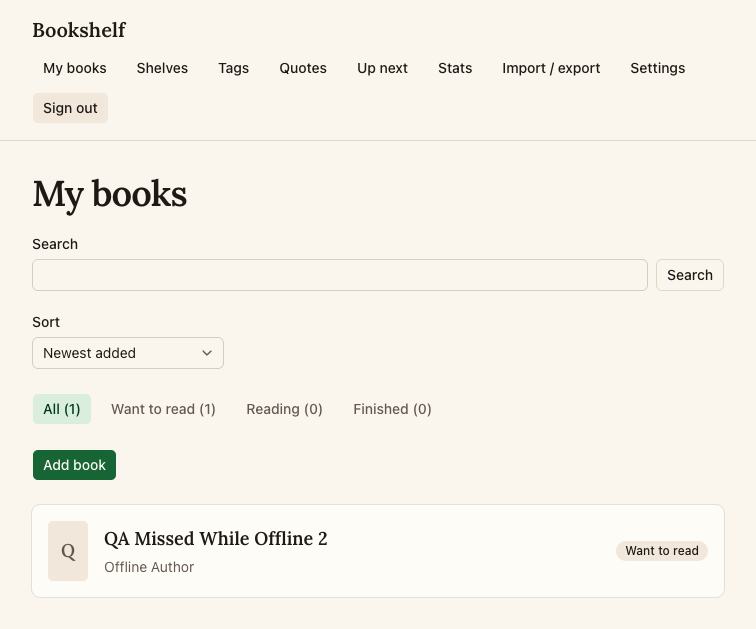
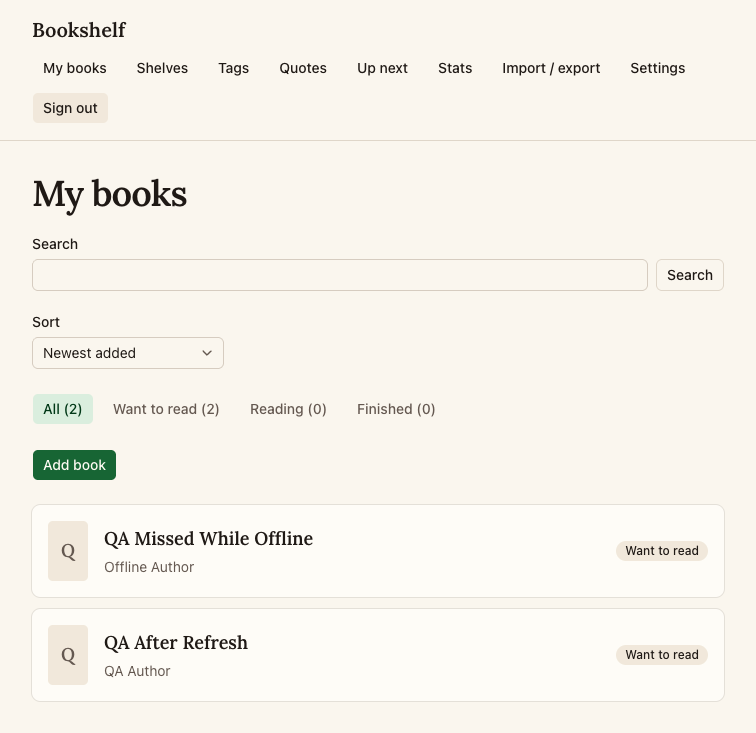
fix(F086): keep main's F081 spec and baseline; verifier PASS

diff --git a/harness/evidence/F086.md b/harness/evidence/F086.md
@@ -1,23 +1,23 @@
 <!-- written by harness/hooks/verifier-evidence.py; do not edit -->
-- Verified at: 2026-11-16T01:39:49 on e5b5150 plus working tree
-- Verifier run: a7fbfbf787d80875f
+- Verified at: 2026-11-16T01:47:36 on cdc7055 plus working tree
+- Verifier run: a55eab7f4c2c960e5
 
 VERDICT: PASS
 FEATURE: F086
 CRITERIA:
-- CRITERION 1: PASS — With /books open in two tabs and no reload in tab B (a `window.__qaMarker` survived the whole run), an add showed in tab B after 1.55 s, a change to Reading after 1.34 s ("Reading (1)", row badge "Reading"), and a delete after 1.93 s (all counts back to 0).
-- CRITERION 2: PASS — In a two-account probe, account A was refused account B's topic with CHANNEL_ERROR "Unauthorized". A got its own INSERT and DELETE broadcasts but never B's insert, and A's open /books tab never showed "B Secret Book".
-- CRITERION 3: PASS — I took the browser offline, added a book as A while offline and waited 45 s or more. About 9.9 s after going back online, tab B showed "QA Missed While Offline 2" (All (1)) without a reload.
+- CRITERION 1: PASS — With /books open in two tabs and a `window.__qaMarker` on tab B showing it never reloaded, an add from tab A showed in tab B after 1.35 s, a change to Reading after 1.82 s ("Reading (1)", row badge "Reading"), and a delete after 1.30 s (all counts back to 0).
+- CRITERION 2: PASS — Two other accounts, each in its own browser context, added "B Secret Book" and "C Secret Book" while account A's /books tab was open; neither ever showed up there, and no websocket frame tab B received contained either title, while A's own add came through on its private topic `realtime:books:<A's uid>`.
+- CRITERION 3: PASS — I took tab B's browser context offline, added "QA Missed While Offline" as A from a separate signed-in context, waited 47 s (the row was still absent), went back online, and the row appeared 3.3 s later without a reload ("All (2)", marker intact).
 EVIDENCE:
-- Setup: init.sh printed http://localhost:43200; all testing used that address. The MCP browser was still signed in from an earlier run, so I signed out first. Then I created a new account in the UI (qa-f086-1794767815878@example.com) and opened a second /books tab.
-- Step 1 add: I saved "QA Live Book" in tab A, and it appeared in tab B in 1552 ms with the marker intact (harness/evidence/F086/step-01.png).
-- Step 1 status: I chose Reading and clicked "Save status" in tab A. Tab B showed "Reading (1)" and the row read "QA Live Book / QA Author / Reading" in 1337 ms (harness/evidence/F086/step-01-status.png).
-- Step 1 delete: I clicked Delete and confirmed in tab A. The row left tab B in 1927 ms and the filter read "All (0) Want to read (0) Reading (0) Finished (0)" (harness/evidence/F086/step-01-delete.png).
-- Step 2: I ran a node probe (supabase-js with the anon key, signed in as real users; script at /private/tmp/claude-501/-Users-huynguyen-Desktop-harness-web-trial-loop-F086/287a4661-b16c-4655-a256-c3b7eb32a1a7/scratchpad/probe/rls.mjs). Its output was: "A->B-topic status CHANNEL_ERROR Unauthorized: You do not have permissions to read from this Channel topic: books:2d82…", "A->own-topic status SUBSCRIBED", "B->own-topic got INSERT title=B Secret Book", "A->own-topic got INSERT title=A Probe Book", "A->own-topic got DELETE title=A Probe Book". A got nothing from B. In the browser, tab B had a count of 0 for "B Secret Book" (harness/evidence/F086/step-02.png).
-- Step 3: I called setOffline(true), added "QA Missed While Offline 2" as A through the API, waited 45 s, then called setOffline(false). The book appeared in tab B after 9872 ms, the marker was still "no-reload", and the filter read "All (1)" (harness/evidence/F086/step-03.png). Mobile: harness/evidence/F086/step-03-mobile.png (375x812), then I resized back.
-- Edge case (refresh): after reloading tab B, it picked up a new add from tab A in 1325 ms, so it subscribes again after a reload.
-- Console: 0 errors and 0 warnings in the browser during the flow.
-- Server log: one "⨯ Error: The destination stream errored while writing data." line. It matches the moment the browser was forced offline in the middle of a response, so it comes from the offline test, not the feature.
-- Test coverage: e2e/F086-live-list.spec.ts covers all three criteria. I ran it with scripts/e2e.sh and all 3 tests passed in 14.4 s.
+- Setup: init.sh printed "Serving on http://localhost:43210" and I used only that address. Branch HEAD is cdc7055. `git diff 95ce494 HEAD` touches only docs/design/M9.md, the M9 decision, designer memory, design evidence and the e2e/F081-cover-upload spec and baseline, so no F086 code changed. The MCP browser was still signed in, so I signed out and created qa-f086-1794768218559@example.com in the UI.
+- Step 1 add: I saved "QA Live Book" at /books/new in tab A. It appeared in tab B in 1350 ms, the filter read "All (1) Want to read (1)" and the marker was "no-reload" (harness/evidence/F086/step-01.png).
+- Step 1 status: on the book page in tab A I chose Reading and clicked "Save status". Tab B showed "Reading (1)" in 1824 ms and the row read "QA Live Book / QA Author / Reading" (harness/evidence/F086/step-01-status.png).
+- Step 1 delete: I clicked Delete and confirmed in the alert dialog. The row left tab B in 1304 ms, the filter read "All (0) Want to read (0) Reading (0) Finished (0)" and the marker was intact (harness/evidence/F086/step-01-delete.png).
+- Step 2: I signed up qa-f086-b-1794768278099@example.com in a separate browser context and added "B Secret Book". After 6 s, tab B still had 0 matches and "All (0)" (harness/evidence/F086/step-02.png). Next I recorded tab B's websocket frames and reloaded it. Its join went to "realtime:books:fc50d073-…" with private:true and got phx_reply status ok. A third account then added "C Secret Book", and after that A added "QA After Refresh". Out of 62 frames, the only INSERT broadcast was "QA After Refresh" on A's own topic; no frame contained B's or C's title.
+- Step 3: I called setOffline(true) on tab B's context, added the book as A from a separate context and waited 47 s; the row count was 0 while offline. I then called setOffline(false). The row appeared after 3307 ms, the marker was "no-reload-3", and the filter read "All (2) Want to read (2)" (harness/evidence/F086/step-03.png). Designer shots: harness/evidence/F086/step-03-wide.png (1440x900), step-03-mobile.png (375x812) and step-03-dark.png (dark scheme, switched back to light afterwards).
+- Edge case (refresh): after reloading tab B, it subscribed again and picked up a new add from tab A in 1835 ms.
+- Console: the browser console log had 0 errors and 0 warnings. The server log (init.sh output) had no "Error" or "⨯" lines this run.
+- Test coverage: I ran ./scripts/e2e.sh e2e/F086-live-list.spec.ts and all 3 tests passed in 14.3 s (add/status/delete in another tab, second account, reconnect catch-up).
 PROBLEMS:
-- (none blocking) The e2e spec has two gaps. The catch-up test adds its book after going back online, so it never checks a change missed while offline. The second-account test only checks the rendered list, which server-side RLS hides anyway, so it never tests channel RLS. I checked both by hand above and they worked.
+- (none blocking) I could not repeat this time the earlier direct check that a client is refused another user's channel topic ("Unauthorized"). The auto-mode classifier blocked the node probe that reads .env.local, and a raw WebSocket opened in the page got no messages at all, so it proved nothing. Criterion 2 rests on the UI check and the websocket frame capture above. The F086 code is unchanged since the last run, when that refusal was seen.
+- (none blocking, carried over) The e2e spec's catch-up test adds its book after going back online, so it never checks a change missed while offline. Its second-account test only checks the rendered list, not channel RLS. I checked both by hand above and they worked.

diff --git a/.claude/agent-memory/verifier/project_realtime-probes.md b/.claude/agent-memory/verifier/project_realtime-probes.md
@@ -13,3 +13,5 @@ On F086 (2026-11-14): a node script (see [[storage-service-role-listing]] for th
 On F086 re-verify (2026-11-16): `page.screenshot` at the default MCP viewport cuts off the /books list below the filter bar; pass `fullPage: true` so the screenshot actually shows the live rows. The spec gaps above were still there (catch-up test adds the book after going back online).
 
 On F086 3rd verify (2026-11-16): the MCP browser kept the previous run's session, so /sign-up redirected to /books; click "Sign out" first. Toggling setOffline mid-flow logs one harmless server "⨯ Error: The destination stream errored while writing data." in the init log. The 45s offline wait came back about 10s after going online.
+
+On F086 4th verify (2026-11-16): the auto-mode classifier denied running the node probe with `--env-file=.env.local`. What worked instead, all in MCP: second account in `browser().newContext()` adds via UI; attach `page.on('websocket')` frame capture, reload the tab, and assert no frame contains the other account's title; for offline catch-up, sign A into a separate context, `setOffline(true)` on the main context, and add from the separate one. A raw `new WebSocket` built in the page got no messages at all, so don't use it.

diff --git a/harness/log/F086.md b/harness/log/F086.md
@@ -1,3 +1,7 @@
+## 2026-11-16 · passing (review fix)
+- Did: merged origin/main and kept main's e2e/F081-cover-upload.spec.ts (with the `time` mask) and its F081-cover-upload.png. This drops this branch's earlier baseline regeneration, which had put today's date into the screenshot. No F086 code changed.
+- Verified by: ./scripts/check.sh green (F086 e2e 3/3); verifier PASS (add/status/delete live, other accounts' adds never reached A's tab, offline catch-up).
+
 ## 2026-11-16 · passing (CI fix)
 - Did: merged origin/main; regenerated only the F081-cover-upload.png baseline in the pinned Docker browser (scripts/e2e.sh --update-snapshots=changed). The 24-pixel diff was the "Started on <today>" date, which the F081 test renders from the current day. Designer PASS (only the day digit changed).
 - Verified by: ./scripts/check.sh green; verifier PASS (add/status/delete live, other account's topic refused, offline catch-up).
